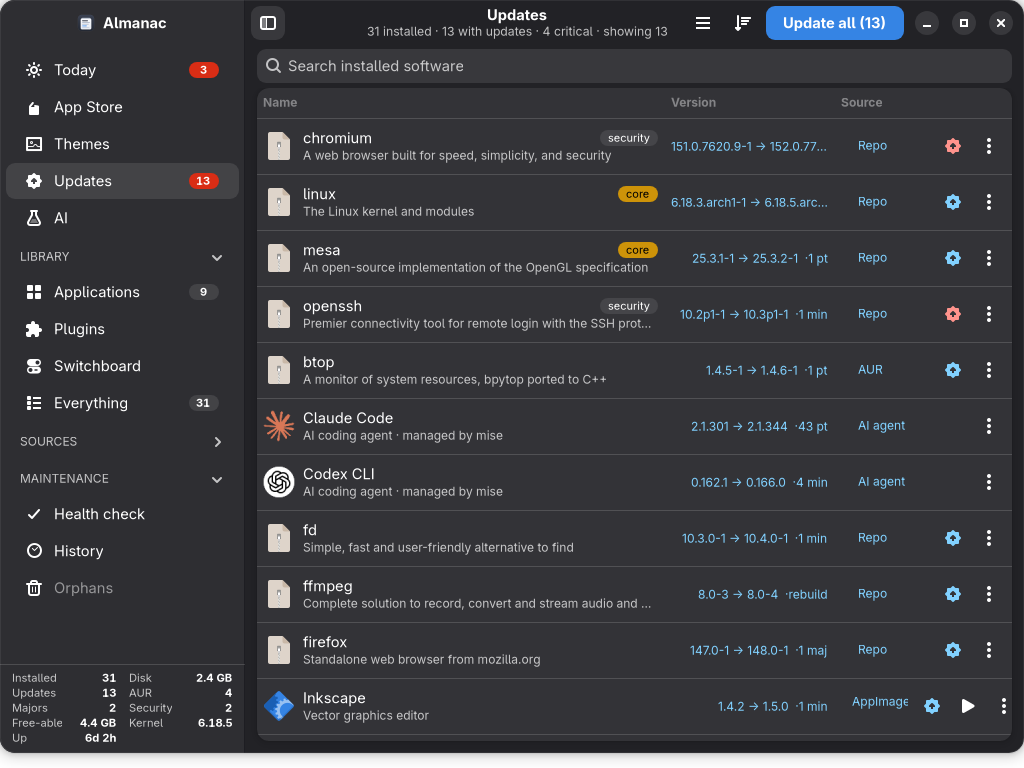
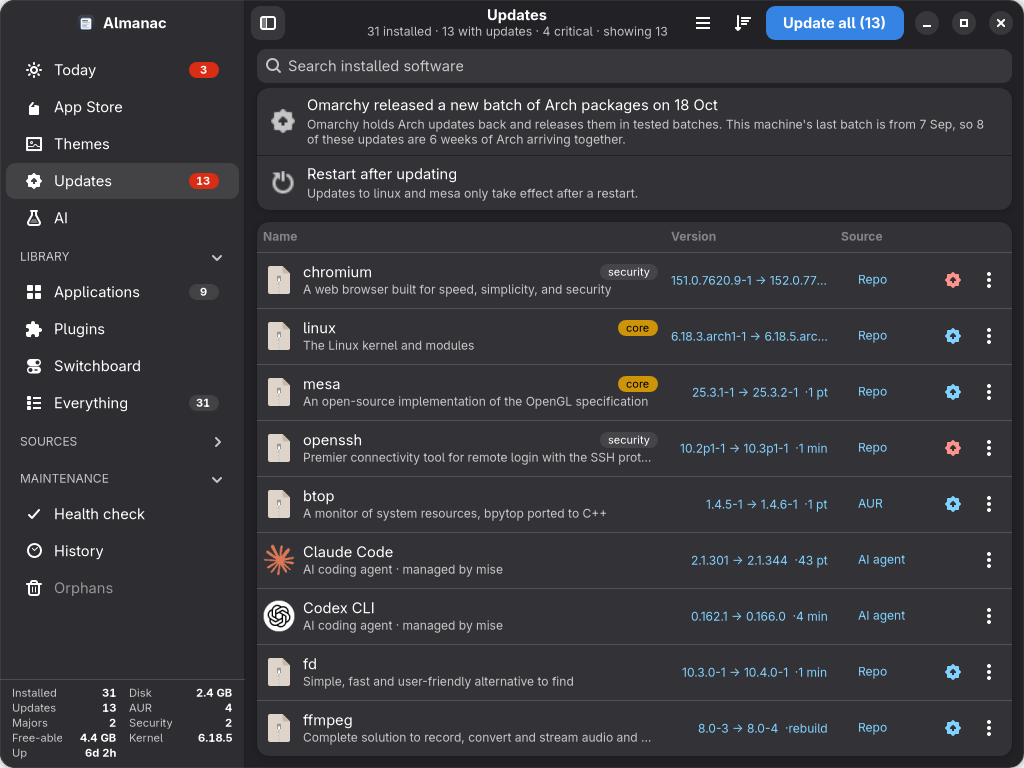
Almanac 2.1.0
Updates and History explain themselves: why the update count jumped (a new
batch from Omarchy's stable mirror, with both batch dates), whether the
batch needs a restart, and one line for the last 24 hours at the top of
History, including what the weekly scheduled update did. Fixed: package
relations, links and names containing <, > or & blanked their row.

selfupdate::VERSION now comes from Cargo.toml instead of being bumped by
hand; the test that the shipped metainfo's newest release matches it stays.
README describes the new notes and installs almanac-autorun from source;
screenshots regenerated.

diff --git a/src/selfupdate.rs b/src/selfupdate.rs
@@ -74,9 +74,11 @@ fn py_resolve(p: &Path) -> PathBuf {
 }
 
 pub const NAME: &str = "Almanac";
-/// Bumped by hand at release. git describe supersedes it in a checkout, so this
-/// is only what a tarball install reports.
-pub const VERSION: &str = "2.0.0";
+/// The release version, from Cargo.toml. git describe supersedes it in a
+/// checkout, so this is what a package or tarball install reports. The
+/// shipped metainfo's newest release must match it (a test checks), so the
+/// "What's New" window always describes the version that is running.
+pub const VERSION: &str = env!("CARGO_PKG_VERSION");
 
 pub const GIT: &str = "git";
 pub const PACKAGE: &str = "package";
@@ -403,9 +405,8 @@ fn check_as(
 // stale makepkg checkout -- which is why git only counts when the binary
 // lives inside ROOT).
 
-/// The version of this build (Cargo.toml). A compiled build reports it where
-/// the Python reports `VERSION`: the constant is the Python release's.
-pub const BUILD_VERSION: &str = env!("CARGO_PKG_VERSION");
+/// The version of this build: [`VERSION`].
+pub const BUILD_VERSION: &str = VERSION;
 
 /// What the note says, after the Python's "N commit(s) behind", in a
 /// checkout that would otherwise offer to pull.

diff --git a/README.md b/README.md
@@ -150,6 +150,18 @@ copy has not heard of yet; installing one of those on its own would mean
 For those rows, **Update** says so and offers **Update all** instead of running
 a command that would skip the package and report success.
 
+**A jump in the count is explained, not just shown.** Omarchy takes the Arch
+repositories from a stable mirror that holds packages back and releases them
+in tested batches, so the count can go from 5 to 370 overnight with nothing
+wrong. When it does, a note above the list says so — *Omarchy released a new
+batch of Arch packages on 17 Oct … this machine's last batch is from 8 Sep, so
+these 370 updates are 6 weeks of Arch arriving together.* Both dates come from
+disk, not the network: pacman's sync database and `checkupdates`' private copy
+each carry the mirror's Last-Modified time. On an ordinary mirror the note says
+when the package lists were last synced instead; under a week's gap it says
+nothing. When the batch includes the kernel, systemd, glibc, graphics drivers
+or firmware, a second note says to restart afterwards and names them.
+
 Versions-behind counts from the first component that actually differs, and
 calendar versions are not counted at all: `20181225 → 20261002` is a date, not
 79,777 releases.
@@ -211,6 +223,11 @@ days on one timeline: every package transaction, every snapshot, every config
 file a tool replaced, and everything Almanac itself did — including updates
 that ran but changed nothing. Days with a snapshot say so, since what came
 after can be undone from the boot menu.
+
+The page opens with one line for the last 24 hours — *Installed lld and rust ·
+the scheduled update updated vectorcraft and wordcraft* — so "did something
+install last night?" is answered before you read the timeline. The weekly
+scheduled update records what it updated there too.
 
 ### Every action is checked, not assumed
 
@@ -346,6 +363,7 @@ git clone https://github.com/twodxme/almanac ~/.local/share/almanac
 cd ~/.local/share/almanac
 cargo build --release
 install -Dm755 target/release/almanac ~/.local/bin/almanac
+install -Dm755 target/release/almanac-autorun ~/.local/lib/almanac/almanac-autorun
 install -Dm644 docs/almanac.desktop ~/.local/share/applications/almanac.desktop
 install -Dm644 docs/io.github.twodxme.Almanac.svg \
   ~/.local/share/icons/hicolor/scalable/apps/io.github.twodxme.Almanac.svg
